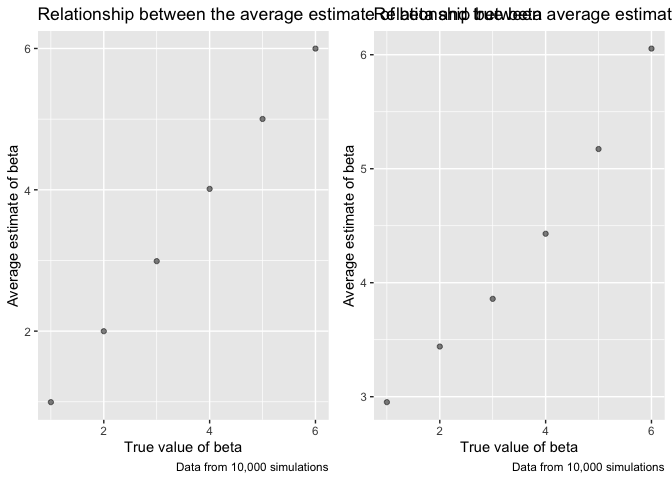
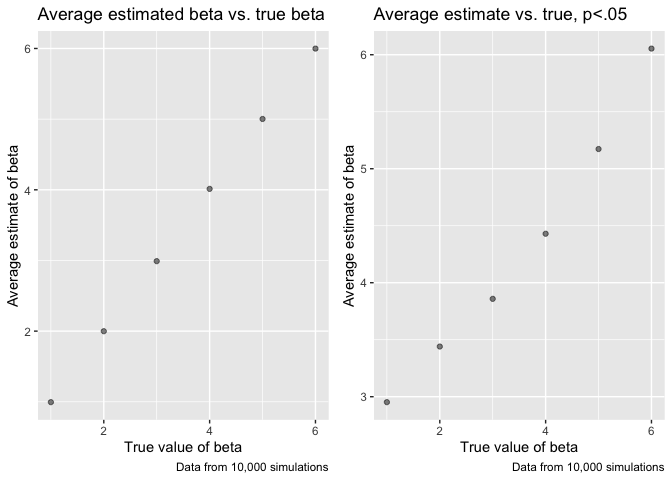
Problem 3: completed; Final Rmd

Changed region(s): [[0.0625, 0.0, 1.0, 0.0625]]

diff --git a/p8105_hw5_rac2224.md b/p8105_hw5_rac2224.md
@@ -155,7 +155,28 @@ truebeta =
 
 Plot comparing effect size (true beta1) to power
 
-plot showing the average estimate of β̂1 on the y axis and the true
+``` r
+truebeta  %>%
+    group_by(beta_1) %>%
+    summarize(power = sum(p.value<.05)/n()) %>%
+    ggplot(aes(x = beta_1, y = power)) + geom_line() +
+      labs(
+        title = "Association between effect size and power",
+        x = "Effect size (true value of beta)",
+        y = "Power",
+        caption = "Data from 10,000 simulations"
+      )
+```
+
+![](p8105_hw5_rac2224_files/figure-gfm/unnamed-chunk-6-1.png)<!-- -->
+
+  - As effect size or the true value of beta increases from 1 to 6, the
+    power of the test increases. As effect size increases, we have an
+    increased probability of correctly rejecting the null hypothesis
+    when there is a difference between estimated and true beta at 5%
+    level of significance.
+
+Plot showing the average estimate of β̂1 on the y axis and the true
 value of β1 on the x axis
 
 ``` r
@@ -167,7 +188,7 @@ plot2 =
     summarize(estimate_mean = mean(estimate)) %>%
     ggplot(aes(x = beta_1, y = estimate_mean)) + geom_point(alpha = .5) +
       labs(
-        title = "Relationship between the average estimate of beta and true beta",
+        title = "Average estimated beta vs. true beta",
         x = "True value of beta",
         y = "Average estimate of beta",
         caption = "Data from 10,000 simulations"
@@ -178,9 +199,9 @@ plot3 =
     filter(p.value < .05) %>%
     group_by(beta_1) %>%
     summarize(estimate_mean = mean(estimate)) %>%
-    ggplot(aes(x = beta_1, y = estimate_mean)) + geom_point(alpha = .5) + 
+    ggplot(aes(x = beta_1, y = estimate_mean))  + geom_point(alpha = .5) +  
       labs(
-        title = "Relationship between average estimate of beta and true beta when null is rejected",
+        title = "Average estimate vs. true, p<.05",
         x = "True value of beta",
         y = "Average estimate of beta",
         caption = "Data from 10,000 simulations"
@@ -194,7 +215,22 @@ combined
 
 ![](p8105_hw5_rac2224_files/figure-gfm/unnamed-chunk-7-1.png)<!-- -->
 
-Is the sample average of β̂1 across tests for which the null is rejected
-approximately equal to the true value of β1? Why or why not?
+  - When comparing the sample average of beta1 to the true value of beta
+    regardless of the p-value, the average estimate and true values are
+    very similar. For example, when true beta is 1, the average estimate
+    is .99; when true beta is 6, the average estimate is 6.00. Since all
+    tests are included, such as tests with p \>.05 where the estimate
+    and true beta are similar, the average estimate of beta will be
+    approximately equal to the true value of beta.
 
-  -
+  - In contrast, the sample average of beta1 across tests for which the
+    null is rejected is not approximately equal to the true value of
+    beta1. As true beta1 or the effect size increases, we have increased
+    power and the sample average of beta1 becomes closer to the true
+    beta1. Since we are restricted to tests for which the null is
+    rejected (p \<.05), this means we are only including tests where the
+    estimated betas differ significantly from the true value of beta in
+    our average estimate; thus, the average estimated betas are greater
+    than the true betas. For example, when true beta is 1, the average
+    estimate is 2.95; when true beta is 3, the average estimate is 3.86;
+    and when true beta is 6, the average estimate is 6.05.
